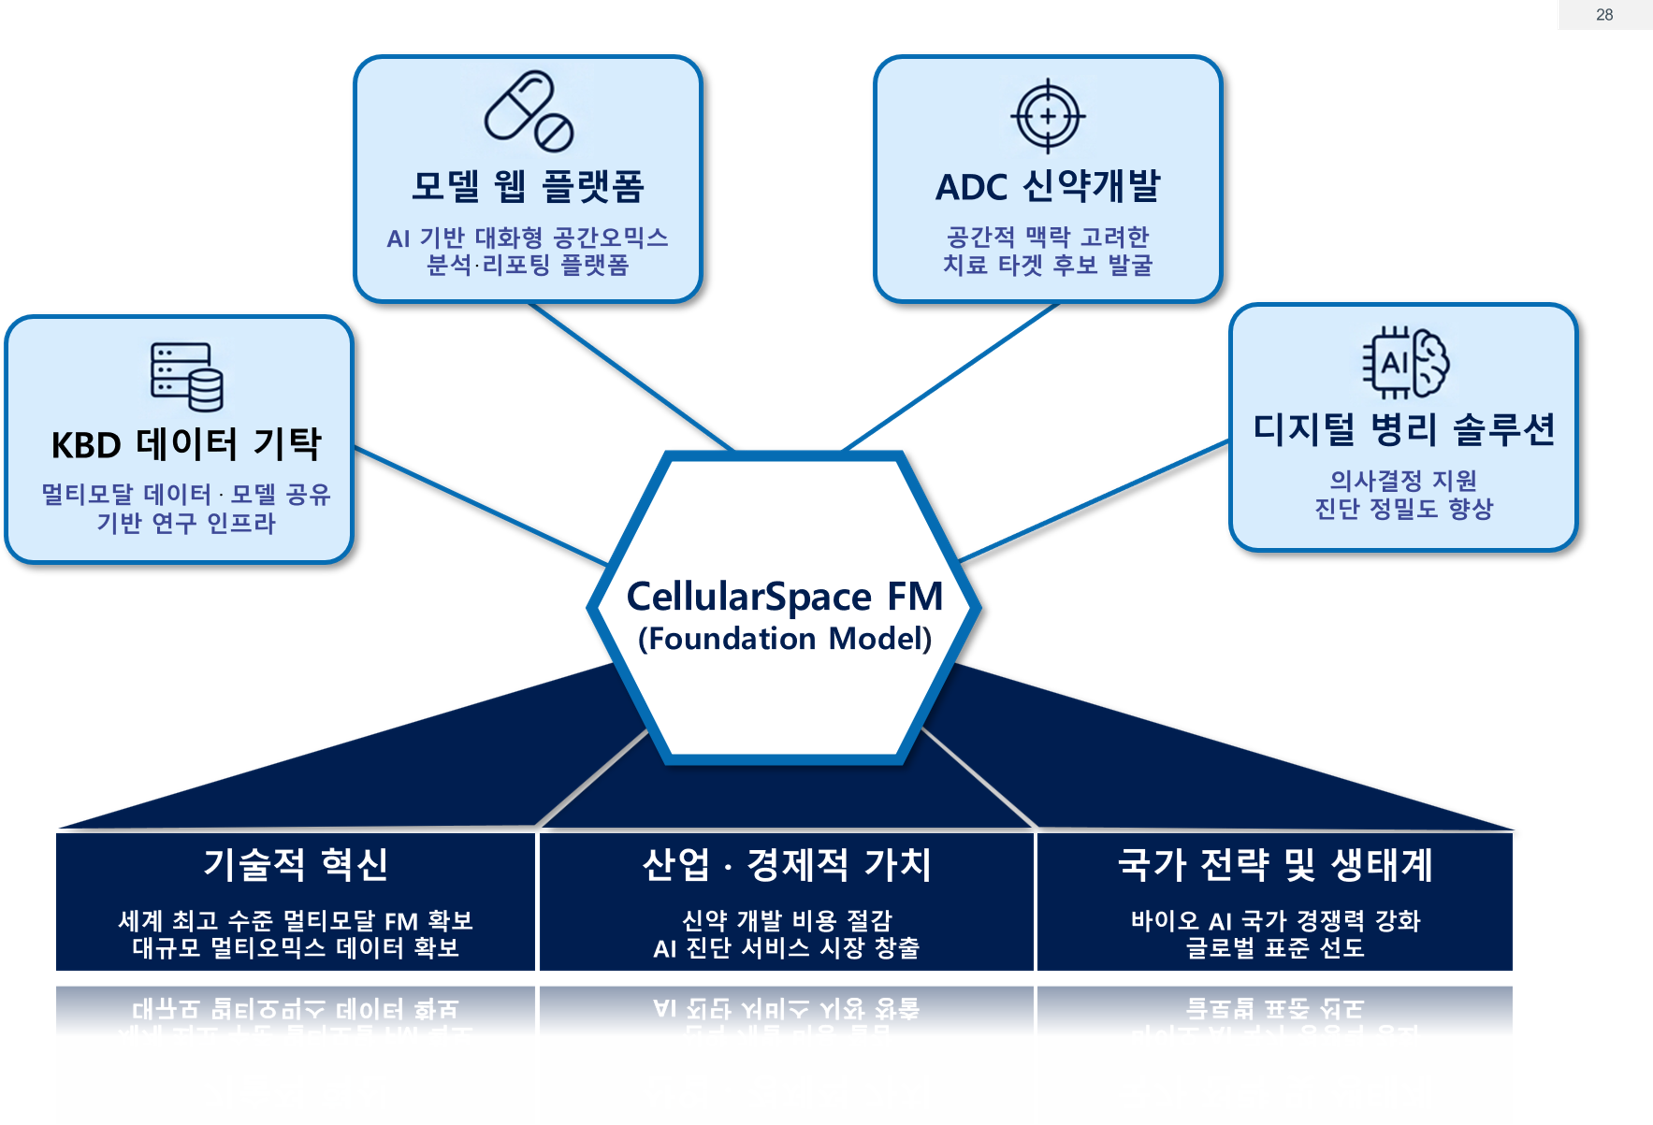
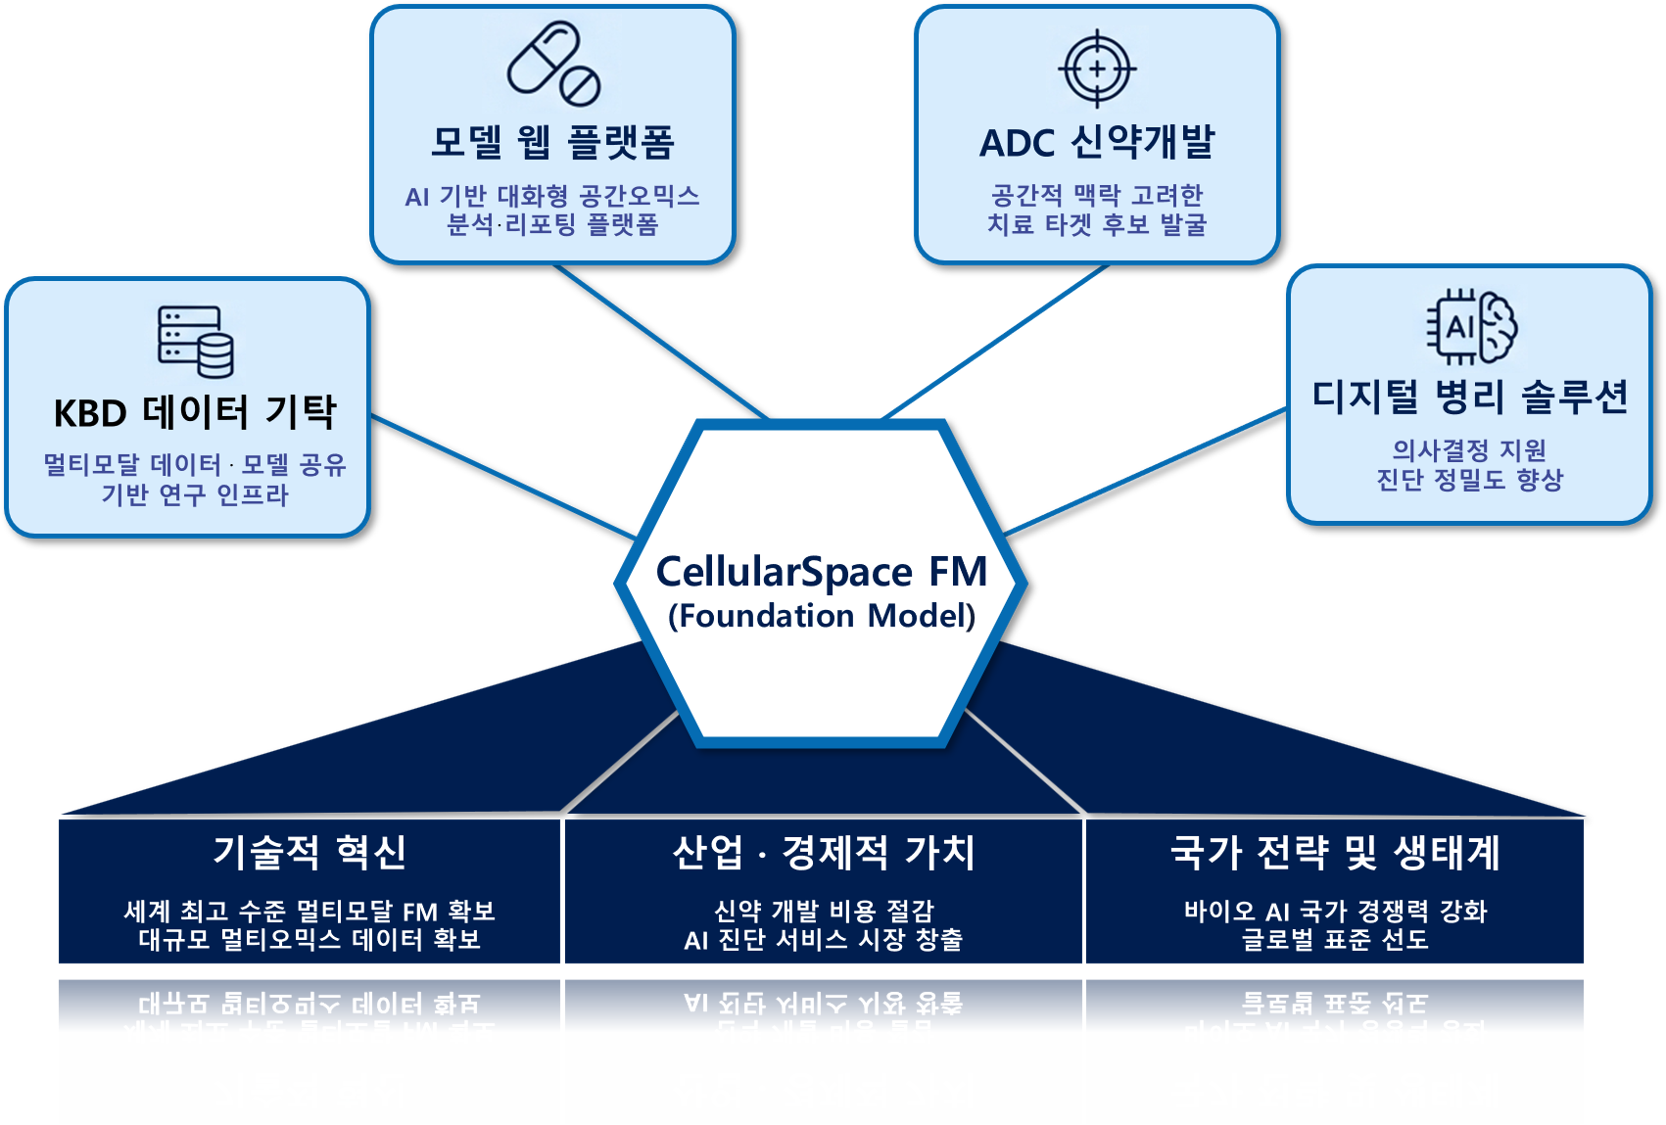
fix: replace CellularSpace impact image and tighten spacing

Changed region(s): [[0.0, 0.0, 1.0, 0.9333]]

diff --git a/_styles/page.scss b/_styles/page.scss
@@ -239,6 +239,11 @@ $page-content: 1280px;
   align-self: start;
 }
 
+.research-cellularspace-diagrams {
+  display: grid;
+  gap: 6px;
+}
+
 .research-cellularspace-figure .page-media-frame {
   background: #fff;
 }

diff --git a/research/index.md b/research/index.md
@@ -91,15 +91,17 @@ nav:
       </div>
 
       <figure class="page-media-card page-media-card-emphasis research-cellularspace-figure">
-        <a class="page-media-frame" href="{{ '/images/cellularspace-impact.png' | relative_url }}" target="_blank" rel="noopener noreferrer" aria-label="Open the full-size CellularSpace applications and impact diagram in a new tab">
-          <img src="{{ '/images/cellularspace-impact.png' | relative_url }}" width="1653" height="1125" alt="CellularSpace foundation model applications: shared multimodal data infrastructure, an AI-powered spatial omics web platform, ADC drug discovery, and digital pathology solutions, supporting scientific innovation and the bio-AI research ecosystem." loading="lazy" decoding="async">
-        </a>
-        <a class="page-media-frame" href="{{ '/images/cellularspace-overview.png' | relative_url }}" target="_blank" rel="noopener noreferrer" aria-label="Open the full-size CellularSpace research diagram in a new tab">
-          <img src="{{ '/images/cellularspace-overview.png' | relative_url }}" width="1186" height="602" alt="CellularSpace integrates pathology images, spatial transcriptomics (ST), and spatial proteomics (SP) across tissue and cell scales to support ADC response prediction, intelligent pathology, and a research web platform." loading="lazy" decoding="async">
-        </a>
+        <div class="research-cellularspace-diagrams">
+          <a class="page-media-frame" href="{{ '/images/cellularspace-impact.png' | relative_url }}?v={{ site.time | date: '%s' }}" target="_blank" rel="noopener noreferrer" aria-label="Open the full-size CellularSpace applications and impact diagram in a new tab">
+            <img src="{{ '/images/cellularspace-impact.png' | relative_url }}?v={{ site.time | date: '%s' }}" width="1666" height="1125" alt="CellularSpace foundation model applications: shared multimodal data infrastructure, an AI-powered spatial omics web platform, ADC drug discovery, and digital pathology solutions, supporting scientific innovation and the bio-AI research ecosystem." loading="lazy" decoding="async">
+          </a>
+          <a class="page-media-frame" href="{{ '/images/cellularspace-overview.png' | relative_url }}" target="_blank" rel="noopener noreferrer" aria-label="Open the full-size CellularSpace research diagram in a new tab">
+            <img src="{{ '/images/cellularspace-overview.png' | relative_url }}" width="1186" height="602" alt="CellularSpace integrates pathology images, spatial transcriptomics (ST), and spatial proteomics (SP) across tissue and cell scales to support ADC response prediction, intelligent pathology, and a research web platform." loading="lazy" decoding="async">
+          </a>
+        </div>
         <figcaption>
           View full-size:
-          <a href="{{ '/images/cellularspace-impact.png' | relative_url }}" target="_blank" rel="noopener noreferrer" aria-label="View applications and impact diagram (opens in a new tab)">Applications &amp; impact</a>
+          <a href="{{ '/images/cellularspace-impact.png' | relative_url }}?v={{ site.time | date: '%s' }}" target="_blank" rel="noopener noreferrer" aria-label="View applications and impact diagram (opens in a new tab)">Applications &amp; impact</a>
           · <a href="{{ '/images/cellularspace-overview.png' | relative_url }}" target="_blank" rel="noopener noreferrer" aria-label="View methodology diagram (opens in a new tab)">Methodology</a>
           <ul class="research-cellularspace-institutions" aria-label="주관 및 공동연구기관" lang="ko">
             <li aria-label="주관기관: 성균관대학교">
